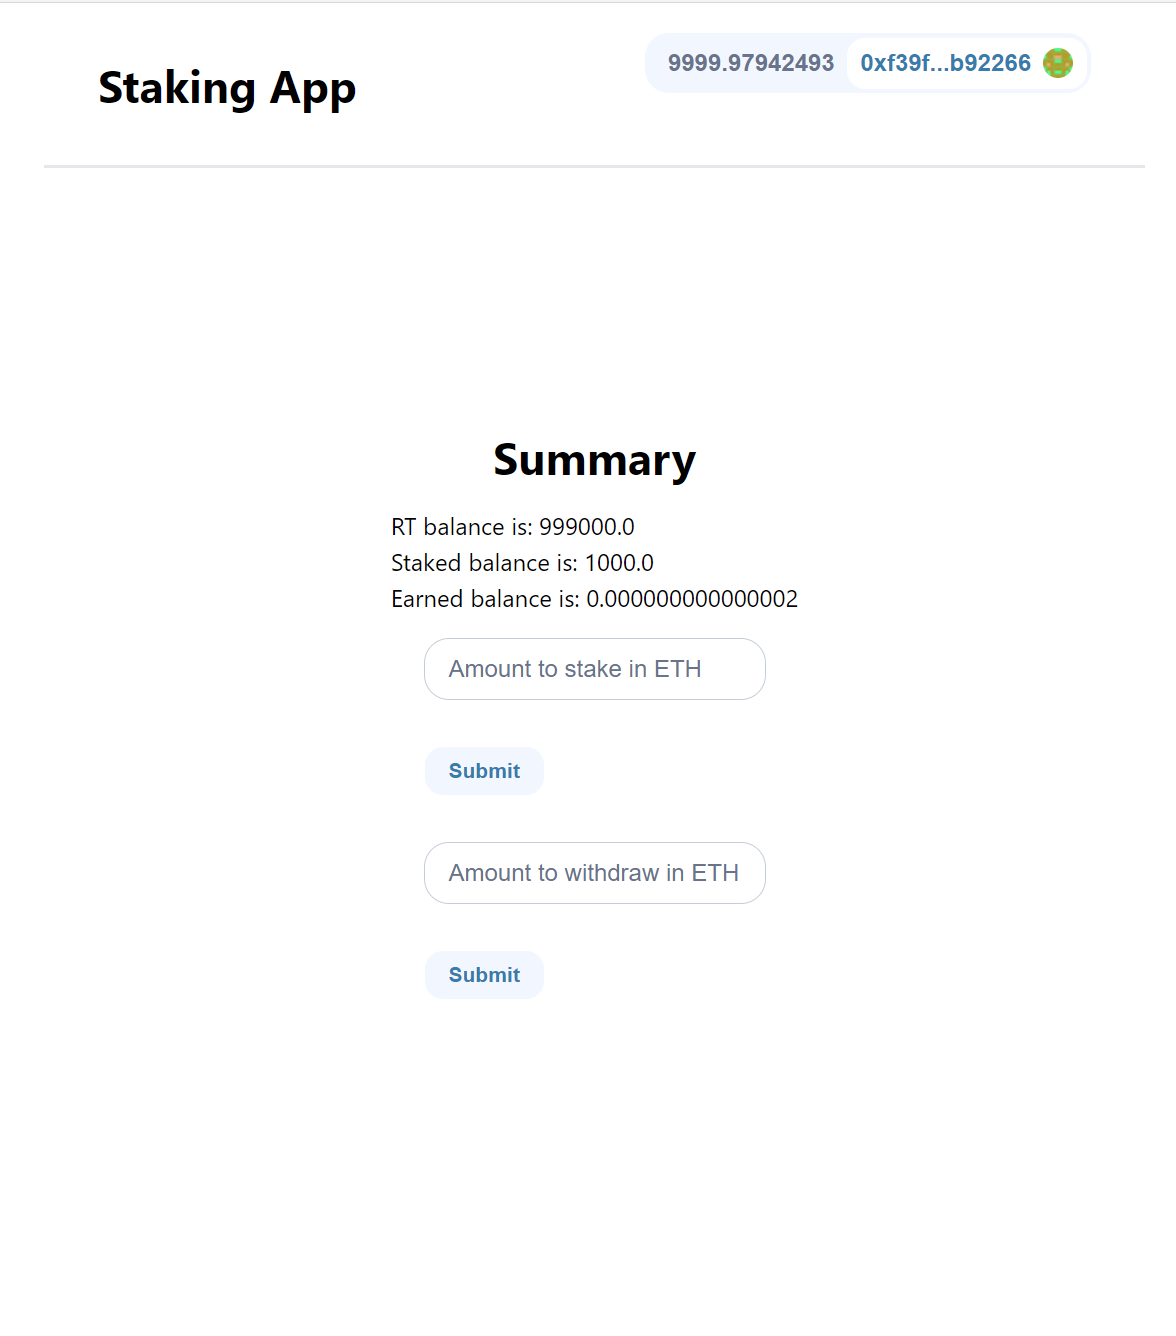
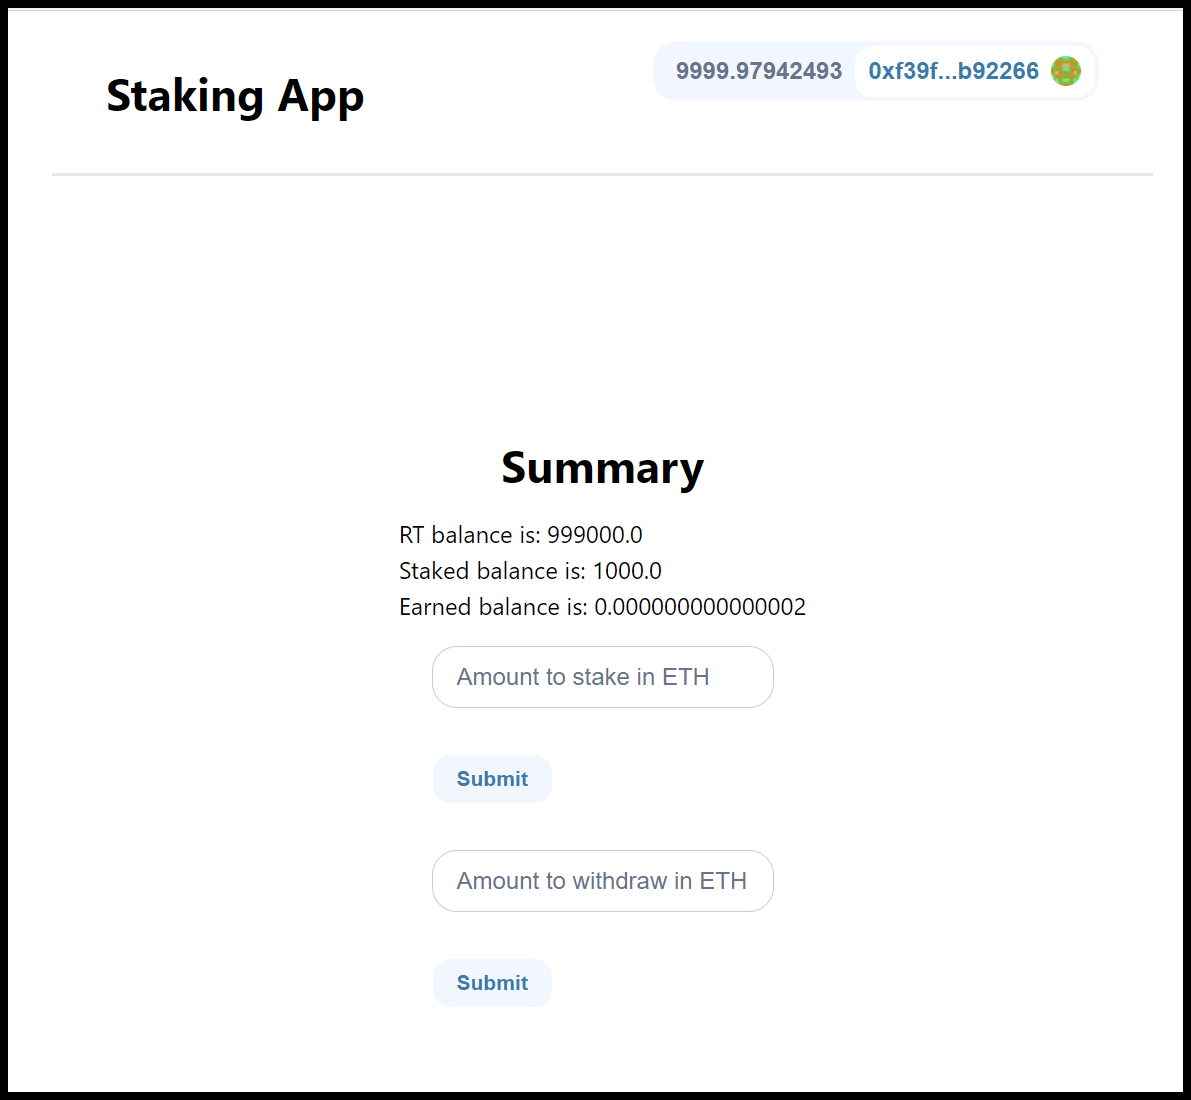
Minor changes to image and README link fixes

diff --git a/staking-ui/README.md b/staking-ui/README.md
@@ -18,13 +18,13 @@ NOTE: Tokens will automatically be created after launching `def-minimal` and add
 ## Instructions to Run DApp
 
 1. [Run a Local ETH Network](#1-run-a-local-eth-network)
-2. [Import local test wallet into MetaMask](#2-Import-local-test-wallet-into-MetaMask)
-3. [Run Frontend Dev Server](#2-Run-Frontend-Dev-Server)
-4. [Use frontend and interact with dapp](#3-Use-frontend-and-interact-with-dapp)
+2. [Import local test wallet into MetaMask](#2-import-local-test-wallet-into-metamask)
+3. [Run Frontend Dev Server](#3-run-frontend-dev-server)
+4. [Use frontend and interact with dapp](#4-use-frontend-and-interact-with-dapp)
 
 ### 1) Run a Local ETH Network
 
-One of the best ways to test and interact with smart contracts is with a local network. Make sure you are running the correct version of node: `nvm use 16.13.2`.
+One of the best ways to test and interact with smart contracts is with a local network. Make sure you are running the correct version of node: `nvm use 16.13.2`
 
 Open a terminal window and navigate to the `defi-minimal` dir.
 
@@ -61,7 +61,7 @@ npm run dev
 
 Open [http://localhost:3000](http://localhost:3000) with your browser to see the result.
 
-### 3) Use frontend and interact with dapp
+### 4) Use frontend and interact with dapp
 
 - Navigate to the dapp on the frontend and interact by testing out the `stake` and `withdraw` fields.
 
